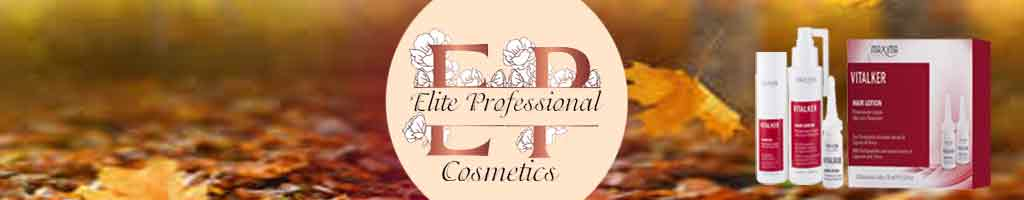
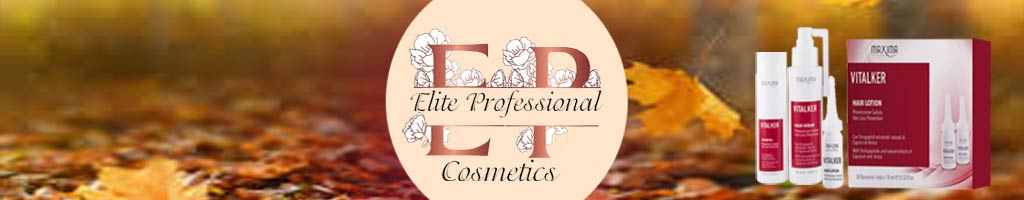
Optimizing pictures for lighthous

diff --git a/index.html b/index.html
@@ -27,7 +27,7 @@
     <!-- MAIN-->
     <main>
         <div class="pic1">
-            <img class="main_img" src="images/pic2.png" alt="Beauty_pic">
+            <img class="main_img" src="images/pic2_2.png" alt="Beauty_pic">
             <div class="pic1_style" style="padding: 40px;">
                 <h1>Beauty in the hands of an expert</h1>
                 <p style="text-align: justify;">
@@ -41,7 +41,7 @@
         <!-- Parallax -->
         <div class="scroll"></div>
         <div class="pic2" style="padding: 40px;">
-            <img class="main_img" src="images/pic3.png" alt="Anti-aging_pic">
+            <img class="main_img" src="images/pic3_3.png" alt="Anti-aging_pic">
 			<div style="text-align: justify;">
                 <h1>Anti-aging treatments</h1>
 				<p>
@@ -70,7 +70,7 @@
             </p>
         </div>
         <div class="social_media">
-            <a href="http://www.facebook.com" target="_blank" title="facebook"><img src="images/facebook_icon.png" alt="facebook"></a>
+            <a href="http://www.facebook.com" target="_blank" title="facebook"><img src="images/facebook_icon_1.png" alt="facebook"></a>
             <a href="http://www.instagram.com" target="_blank" title="instagram"><img src="images/insta_logo.png" alt="instagram"></a>
             <a href="http://www.youtube.com" target="_blank" title="Youtube"><img src="images/youtube.png" alt="Youtube"></a>
         </div>

diff --git a/about.html b/about.html
@@ -63,7 +63,7 @@
             </p>
         </div>
         <div class="social_media">
-            <a href="http://www.facebook.com" target="_blank" title="facebook"><img src="images/facebook_icon.png" alt="facebook"></a>
+            <a href="http://www.facebook.com" target="_blank" title="facebook"><img src="images/facebook_icon_1.png" alt="facebook"></a>
             <a href="http://www.instagram.com" target="_blank" title="instagram"><img src="images/insta_logo.png" alt="instagram"></a>
             <a href="http://www.youtube.com" target="_blank" title="Youtube"><img src="images/youtube.png" alt="Youtube"></a>
         </div>

diff --git a/contactus.html b/contactus.html
@@ -61,7 +61,7 @@
             </p>
         </div>
         <div class="social_media">
-            <a href="http://www.facebook.com" target="_blank" title="facebook"><img src="images/facebook_icon.png" alt="facebook"></a>
+            <a href="http://www.facebook.com" target="_blank" title="facebook"><img src="images/facebook_icon_1.png" alt="facebook"></a>
             <a href="http://www.instagram.com" target="_blank" title="instagram"><img src="images/insta_logo.png" alt="instagram"></a>
             <a href="http://www.youtube.com" target="_blank" title="Youtube"><img src="images/youtube.png" alt="Youtube"></a>
         </div>

diff --git a/confirmation.html b/confirmation.html
@@ -44,7 +44,7 @@
 					</p>
 				</div>
 				<div class="social_media">
-					<a href="http://www.facebook.com" target="_blank"><img src="images/facebook_icon.png"></a>
+					<a href="http://www.facebook.com" target="_blank" title="facebook"><img src="images/facebook_icon_1.png" alt="facebook"></a>
 					<a href="http://www.instagram.com" target="_blank"><img src="images/insta_logo.png"></a>
 					<a href="http://www.youtube.com" target="_blank"><img src="images/youtube.png"></a>
 				</div>

diff --git a/styles.css b/styles.css
@@ -14,7 +14,7 @@ body {
 
 /* Header */
 header {
-    background-image: url("images/web_banner.png");
+    background-image: url("images/web_banner.jpg");
     background-position: center;
     background-repeat: no-repeat;
     padding: 0 1rem;
@@ -301,7 +301,7 @@ footer {
         align-content: center;
     }
 }
-@media only screen and (min-width: 600px) {
+@media only screen and (max-width: 600px) {
     .scroll {
       background-attachment: scroll;
       width: 100%;
